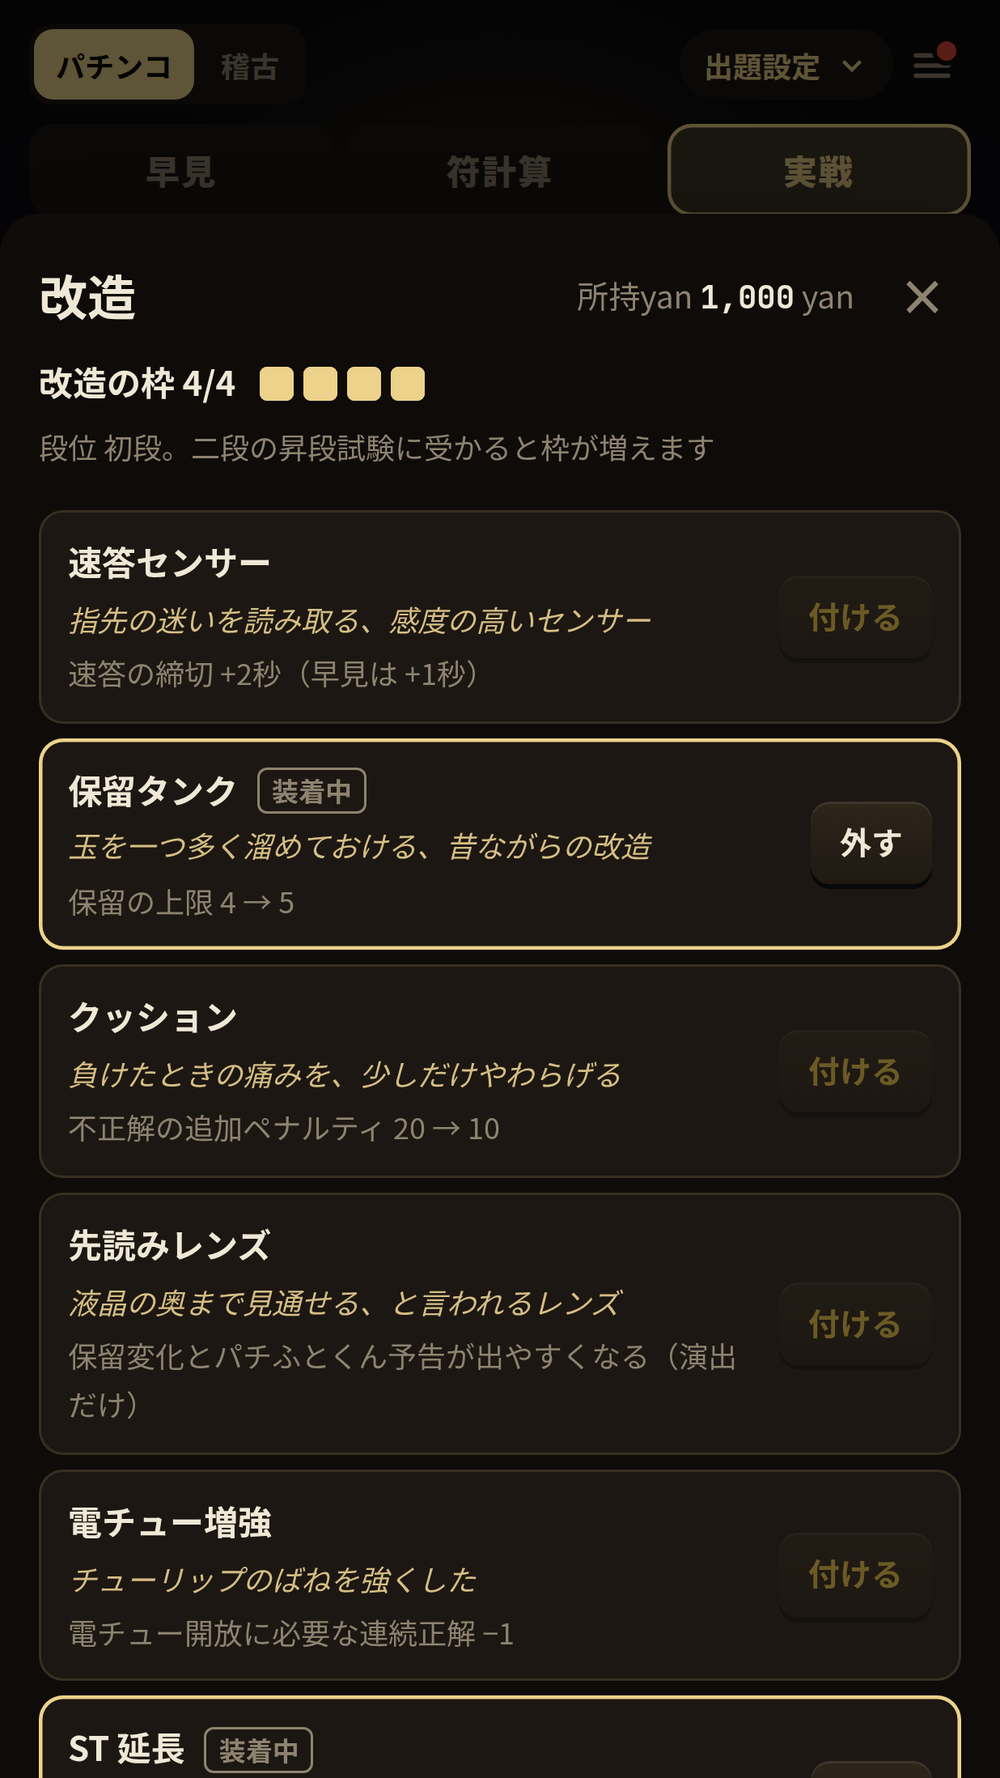
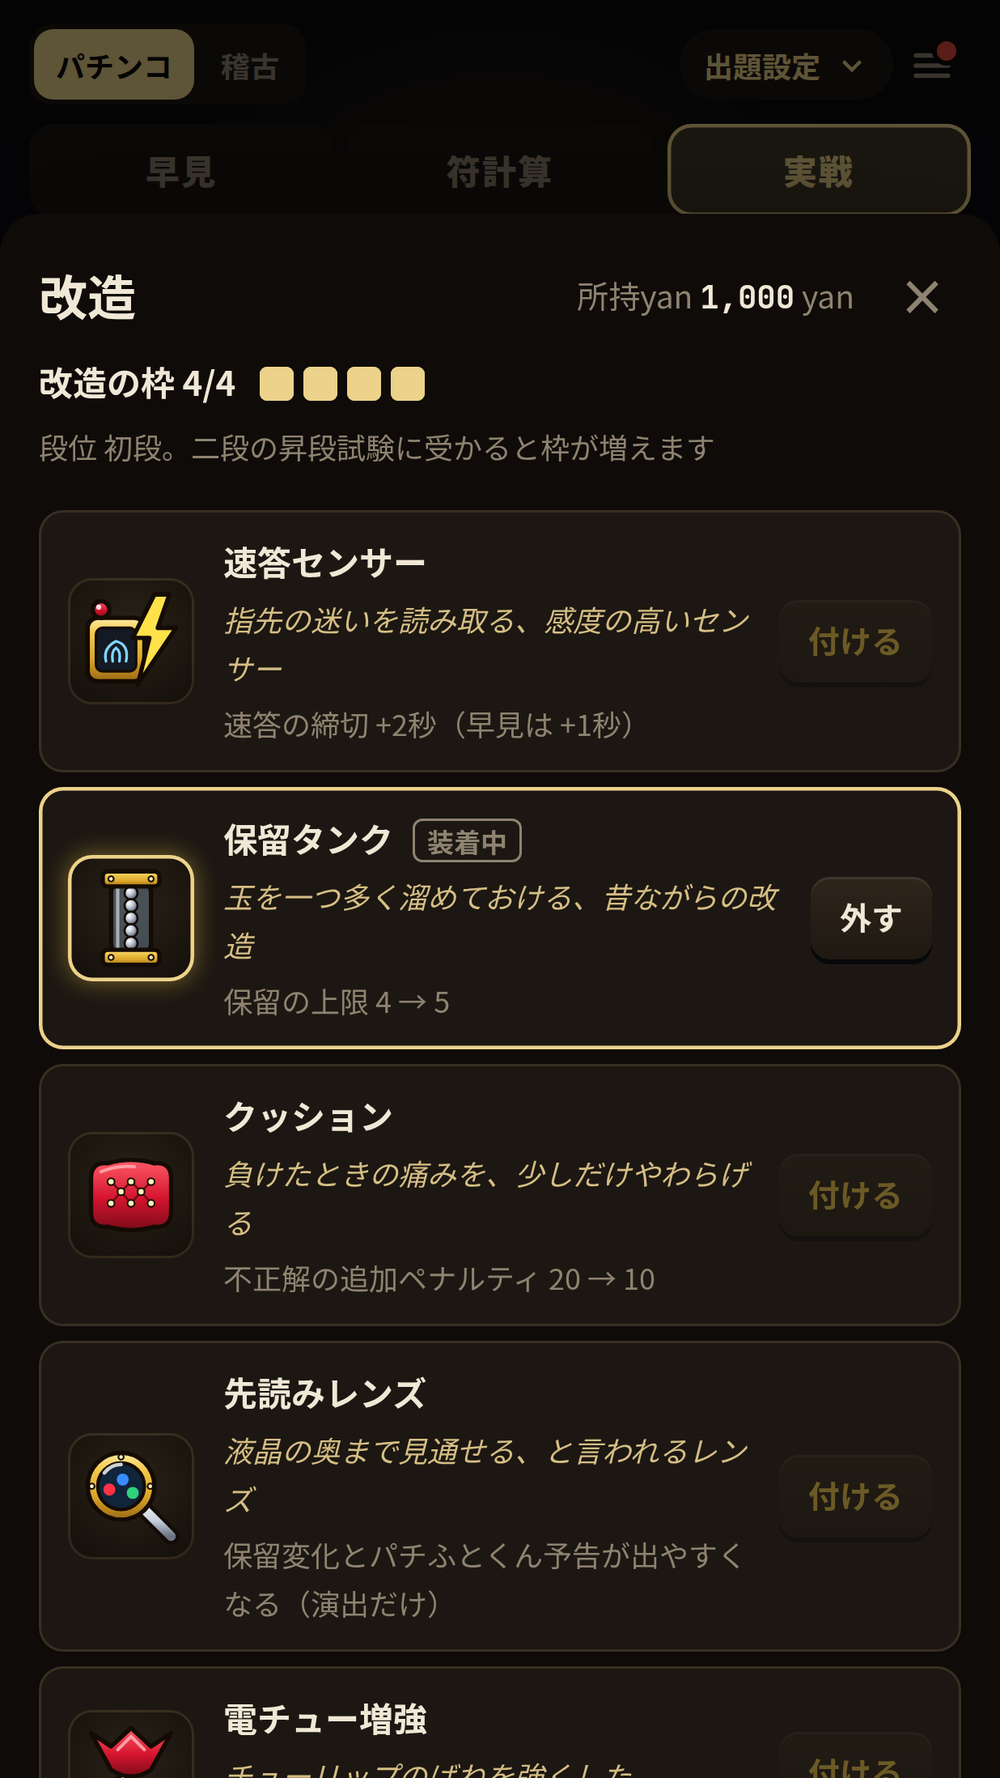
改造パーツ12個に絵をつける
- パチふとくんと同じ画風（太い縁取り、使い込まれた金・鉄・赤）の SVG を src/ui/machine/partArt.ts に描く
- 改造の画面：各行の左に絵。付けているものは枠が光り、まだ手に入れていないものは黒い影
- Lv アップの画面：手に入れたパーツの絵が回りながら現れる
- 台の上：付けているパーツの絵を並べる（スマホ幅では台の枠のすぐ下の右）
- ストアの5枚目を撮り直す

Claude-Session: https://claude.ai/code/session_01Go39Thog7wW1QK3dAFhgwM

diff --git a/src/ui/machine/partArt.ts b/src/ui/machine/partArt.ts
@@ -1,0 +1,163 @@
+import type { PartId } from './parts';
+
+/**
+ * 改造パーツの絵。パチふとくん（tutorial/chara.ts）と同じ画風：太い黒の縁取り、使い込まれた金・鉄・赤。
+ * スクラップ置き場から拾ってきた台の部品に見えるよう、鋲や傷を少し入れる。
+ * 18px ほどの小ささでも形が分かるよう、輪郭を大きく取り、細部は控えめにする
+ */
+
+const INK = '#140b05';
+const RED = '#d4142e';
+const STEEL = '#c4ccd8';
+const W = 2.6;
+let seq = 0;
+
+/** 共通のグラデーション（金・鉄・赤）。id は呼ぶたびに変える */
+function defs(id: string): string {
+  return `<defs>
+    <linearGradient id="${id}-g" x1="0" y1="0" x2="0" y2="1"><stop offset="0" stop-color="#ffe9a0"/><stop offset=".25" stop-color="#f2c94c"/><stop offset=".65" stop-color="#d9a52a"/><stop offset="1" stop-color="#9c6a14"/></linearGradient>
+    <linearGradient id="${id}-s" x1="0" y1="0" x2="0" y2="1"><stop offset="0" stop-color="#eef1f6"/><stop offset=".5" stop-color="${STEEL}"/><stop offset="1" stop-color="#6b7383"/></linearGradient>
+    <linearGradient id="${id}-r" x1="0" y1="0" x2="0" y2="1"><stop offset="0" stop-color="#ff5a66"/><stop offset=".55" stop-color="${RED}"/><stop offset="1" stop-color="#7c0b18"/></linearGradient>
+    <radialGradient id="${id}-b" cx=".35" cy=".32" r=".75"><stop offset="0" stop-color="#fff"/><stop offset=".4" stop-color="${STEEL}"/><stop offset="1" stop-color="#4d5563"/></radialGradient>
+    <radialGradient id="${id}-o" cx=".35" cy=".32" r=".75"><stop offset="0" stop-color="#fffbe0"/><stop offset=".35" stop-color="#ffd84a"/><stop offset=".8" stop-color="#d9a52a"/><stop offset="1" stop-color="#8a5a0c"/></radialGradient>
+  </defs>`;
+}
+
+const rivet = (x: number, y: number, r = 1.6) => `<circle cx="${x}" cy="${y}" r="${r}" fill="#fff4b8" stroke="${INK}" stroke-width="1"/>`;
+/** 4方向に光る小さなきらめき */
+const sparkle = (x: number, y: number, s = 4) =>
+  `<path d="M${x} ${y - s} L${x + s * 0.3} ${y - s * 0.3} L${x + s} ${y} L${x + s * 0.3} ${y + s * 0.3} L${x} ${y + s} L${x - s * 0.3} ${y + s * 0.3} L${x - s} ${y} L${x - s * 0.3} ${y - s * 0.3}Z" fill="#fff4b8" stroke="${INK}" stroke-width="1"/>`;
+/** 右下の丸い札（＋や数字） */
+const badge = (text: string, f: (k: string) => string) =>
+  `<circle cx="50" cy="50" r="10" fill="${f('r')}" stroke="${INK}" stroke-width="${W}"/><text x="50" y="54.6" text-anchor="middle" font-size="${text.length > 1 ? 11 : 14}" font-weight="900" fill="#fff" font-family="'Noto Sans JP', sans-serif">${text}</text>`;
+
+type Draw = (f: (k: string) => string) => string;
+
+const ART: Record<PartId, Draw> = {
+  // 速答センサー：指紋を読む金のセンサー板と、赤い感知ランプ、稲妻
+  fast: (f) => `
+    <rect x="6" y="18" width="34" height="38" rx="6" fill="${f('g')}" stroke="${INK}" stroke-width="${W}"/>
+    <rect x="11" y="24" width="24" height="26" rx="4" fill="#141a24" stroke="${INK}" stroke-width="1.6"/>
+    <g fill="none" stroke="#7fd6ff" stroke-width="1.6" stroke-linecap="round"><path d="M17 44 Q15 36 23 32 Q31 34 29 44"/><path d="M21 44 Q20 38 23 36 Q26 38 25 44"/></g>
+    <circle cx="14" cy="13" r="5" fill="${f('r')}" stroke="${INK}" stroke-width="${W}"/><circle cx="12.6" cy="11.6" r="1.5" fill="#fff" opacity=".85"/>
+    <path d="M46 4 L33 30 L43 30 L36 58 L59 24 L48 24 L55 4 Z" fill="#ffe14a" stroke="${INK}" stroke-width="${W}" stroke-linejoin="round"/>`,
+  // 保留タンク：ガラスの筒に玉が5つ
+  tank: (f) => `
+    <rect x="20" y="10" width="24" height="44" rx="7" fill="#9fd3ff" fill-opacity=".28" stroke="${INK}" stroke-width="${W}"/>
+    ${[17, 24.5, 32, 39.5, 47].map((y) => `<circle cx="32" cy="${y}" r="3.9" fill="${f('b')}" stroke="${INK}" stroke-width="1.3"/>`).join('')}
+    <path d="M24 14 V50" stroke="#fff" stroke-width="2" opacity=".55" stroke-linecap="round"/>
+    <rect x="15" y="4" width="34" height="9" rx="3" fill="${f('g')}" stroke="${INK}" stroke-width="${W}"/>
+    <rect x="15" y="51" width="34" height="9" rx="3" fill="${f('g')}" stroke="${INK}" stroke-width="${W}"/>
+    ${rivet(20, 8.5)}${rivet(44, 8.5)}${rivet(20, 55.5)}${rivet(44, 55.5)}`,
+  // クッション：鋲打ちの赤い革
+  cushion: (f) => `
+    <path d="M8 22 Q8 12 18 13 Q32 9 46 13 Q56 12 56 22 L56 42 Q56 52 46 51 Q32 55 18 51 Q8 52 8 42 Z" fill="${f('r')}" stroke="${INK}" stroke-width="${W}" stroke-linejoin="round"/>
+    <g stroke="#7c0b18" stroke-width="1.4" fill="none" stroke-linecap="round"><path d="M20 24 L26 30 M32 24 L26 30 M32 24 L38 30 M44 24 L38 30 M26 30 L20 37 M26 30 L32 37 M38 30 L32 37 M38 30 L44 37"/></g>
+    ${[
+      [20, 24],
+      [32, 24],
+      [44, 24],
+      [26, 30],
+      [38, 30],
+      [20, 37],
+      [32, 37],
+      [44, 37],
+    ]
+      .map(([x, y]) => rivet(x, y, 2.1))
+      .join('')}
+    <path d="M14 18 Q24 14 34 15" stroke="#ffb3b8" stroke-width="2" fill="none" stroke-linecap="round" opacity=".8"/>`,
+  // 先読みレンズ：真鍮のルーペ。中に保留ランプの光
+  lens: (f) => `
+    <path d="M38 38 L56 56" stroke="${INK}" stroke-width="10" stroke-linecap="round"/>
+    <path d="M38 38 L56 56" stroke="${f('s')}" stroke-width="5.6" stroke-linecap="round"/>
+    <circle cx="26" cy="26" r="20" fill="${f('g')}" stroke="${INK}" stroke-width="${W}"/>
+    <circle cx="26" cy="26" r="14" fill="#10243a" stroke="${INK}" stroke-width="2"/>
+    <circle cx="19" cy="28" r="3.6" fill="#ff3344"/><circle cx="27" cy="22" r="3.6" fill="#3a8bff"/><circle cx="33" cy="30" r="3.6" fill="#2fd27a"/>
+    <path d="M16 18 Q20 13 26 13" stroke="#fff" stroke-width="2.2" fill="none" stroke-linecap="round" opacity=".8"/>
+    ${rivet(26, 8.5)}${rivet(43.5, 26)}${rivet(8.5, 26)}`,
+  // 電チュー増強：開いた赤いチューリップと太いばね
+  denchu: (f) => `
+    <path d="M32 34 L24 37 L40 40 L24 43 L40 46 L24 49 L32 52" fill="none" stroke="${INK}" stroke-width="6" stroke-linejoin="round" stroke-linecap="round"/>
+    <path d="M32 34 L24 37 L40 40 L24 43 L40 46 L24 49 L32 52" fill="none" stroke="${f('g')}" stroke-width="2.6" stroke-linejoin="round" stroke-linecap="round"/>
+    <path d="M8 8 L20 30 Q32 38 44 30 L56 8 L44 16 L32 5 L20 16 Z" fill="${f('r')}" stroke="${INK}" stroke-width="${W}" stroke-linejoin="round"/>
+    <path d="M24 18 L32 10 L40 18" stroke="#ffb3b8" stroke-width="1.8" fill="none" stroke-linecap="round" opacity=".85"/>
+    <rect x="16" y="52" width="32" height="8" rx="2.5" fill="${f('s')}" stroke="${INK}" stroke-width="${W}"/>${rivet(21, 56)}${rivet(43, 56)}`,
+  // ST 延長：回転灯と＋
+  st: (f) => `
+    <g stroke="#ff4a4a" stroke-width="2.6" stroke-linecap="round" opacity=".9"><path d="M12 14 L6 9"/><path d="M52 14 L58 9"/><path d="M32 6 V1"/><path d="M8 28 H3"/><path d="M56 28 H61"/></g>
+    <path d="M14 42 Q14 12 32 12 Q50 12 50 42 Z" fill="${f('r')}" stroke="${INK}" stroke-width="${W}" stroke-linejoin="round"/>
+    <path d="M21 34 Q21 19 31 17" stroke="#ffd0d4" stroke-width="3" fill="none" stroke-linecap="round" opacity=".85"/>
+    <rect x="9" y="40" width="46" height="10" rx="3" fill="${f('s')}" stroke="${INK}" stroke-width="${W}"/>
+    ${rivet(15, 45)}${rivet(49, 45)}
+    ${badge('+', f)}`,
+  // 連続ブースター：右上がりの3本のメーターと矢印
+  combo: (f) => `
+    <rect x="6" y="40" width="13" height="18" rx="2.5" fill="${f('g')}" stroke="${INK}" stroke-width="${W}"/>
+    <rect x="24" y="30" width="13" height="28" rx="2.5" fill="${f('g')}" stroke="${INK}" stroke-width="${W}"/>
+    <rect x="42" y="18" width="13" height="40" rx="2.5" fill="${f('r')}" stroke="${INK}" stroke-width="${W}"/>
+    <path d="M6 30 L22 18 L30 23 L44 8" fill="none" stroke="${INK}" stroke-width="7" stroke-linecap="round" stroke-linejoin="round"/>
+    <path d="M6 30 L22 18 L30 23 L44 8" fill="none" stroke="#7fffb0" stroke-width="3" stroke-linecap="round" stroke-linejoin="round"/>
+    <path d="M36 6 L48 3 L45 15 Z" fill="#7fffb0" stroke="${INK}" stroke-width="2" stroke-linejoin="round"/>`,
+  // 確変ユニット：鉄の箱の基板、紫の確変ランプ、出どころ不明のテープ
+  kakuhen: (f) => `
+    <rect x="6" y="14" width="52" height="40" rx="5" fill="${f('s')}" stroke="${INK}" stroke-width="${W}"/>
+    <rect x="12" y="20" width="26" height="28" rx="2" fill="#16502f" stroke="${INK}" stroke-width="1.6"/>
+    <g stroke="#e8c76a" stroke-width="1.4" fill="none"><path d="M15 26 H24 V32 H34"/><path d="M15 40 H22 V36 H34"/><path d="M28 44 H35"/></g>
+    <rect x="18" y="29" width="7" height="6" fill="${INK}"/><rect x="27" y="38" width="6" height="5" fill="${INK}"/>
+    <circle cx="48" cy="28" r="6.5" fill="#c86bff" stroke="${INK}" stroke-width="${W}"/><circle cx="46" cy="26" r="2" fill="#fff" opacity=".85"/>
+    <circle cx="48" cy="28" r="10" fill="none" stroke="#c86bff" stroke-width="1.4" opacity=".55"/>
+    <path d="M36 50 L58 38 L60 44 L39 56 Z" fill="#e9dfb8" stroke="${INK}" stroke-width="1.8" stroke-linejoin="round"/>
+    <path d="M44 45 L50 49 M50 43 L45 50" stroke="${RED}" stroke-width="1.8" stroke-linecap="round"/>
+    ${rivet(10, 18)}${rivet(10, 50)}${rivet(54, 18)}`,
+  // 上乗せ強化：積み上がる金のコインと＋
+  uwanose: (f) => {
+    const coin = (y: number) =>
+      `<path d="M10 ${y} V${y + 5} Q26 ${y + 12} 42 ${y + 5} V${y}" fill="#b07d18" stroke="${INK}" stroke-width="${W}"/><ellipse cx="26" cy="${y}" rx="16" ry="6" fill="${f('o')}" stroke="${INK}" stroke-width="${W}"/>`;
+    return `${coin(50)}${coin(42)}${coin(34)}${coin(26)}
+      <path d="M18 25 Q26 22 34 25" stroke="#fff" stroke-width="1.6" fill="none" stroke-linecap="round" opacity=".7"/>
+      <circle cx="49" cy="15" r="10" fill="${f('r')}" stroke="${INK}" stroke-width="${W}"/>
+      <path d="M49 9.5 V20.5 M43.5 15 H54.5" stroke="#fff" stroke-width="3.2" stroke-linecap="round"/>
+      ${sparkle(12, 12, 4.5)}`;
+  },
+  // 赤五筒センサー：赤五筒の牌と、それを見つめる目玉のセンサー
+  premium: (f) => `
+    <rect x="31" y="10" width="26" height="36" rx="4" fill="#f6f1e3" stroke="${INK}" stroke-width="${W}"/>
+    <rect x="31" y="40" width="26" height="6" rx="2" fill="#1f5c45" stroke="${INK}" stroke-width="1.6"/>
+    ${[
+      [38, 18],
+      [50, 18],
+      [44, 26],
+      [38, 34],
+      [50, 34],
+    ]
+      .map(([x, y]) => `<circle cx="${x}" cy="${y}" r="3.6" fill="${RED}"/><circle cx="${x}" cy="${y}" r="1.4" fill="#f6f1e3"/>`)
+      .join('')}
+    <path d="M22 32 L32 28" stroke="#ff4a4a" stroke-width="2" stroke-dasharray="2 2" opacity=".9"/>
+    <circle cx="15" cy="36" r="12" fill="${f('g')}" stroke="${INK}" stroke-width="${W}"/>
+    <circle cx="16" cy="35" r="7.5" fill="#fff" stroke="${INK}" stroke-width="1.8"/>
+    <circle cx="18" cy="33.6" r="4" fill="${RED}"/><circle cx="18.8" cy="33" r="1.6" fill="${INK}"/><circle cx="16.6" cy="32" r="1" fill="#fff"/>
+    <rect x="9" y="47" width="12" height="11" rx="2" fill="${f('s')}" stroke="${INK}" stroke-width="2"/>`,
+  // ラウンド追加：R の刻印の歯車と＋1
+  round: (f) => {
+    const teeth = Array.from({ length: 8 }, (_, i) => `<rect x="25" y="2" width="12" height="12" rx="2" transform="rotate(${i * 45} 31 29)" fill="${f('g')}" stroke="${INK}" stroke-width="${W}"/>`).join('');
+    return `${teeth}<circle cx="31" cy="29" r="20" fill="${f('g')}" stroke="${INK}" stroke-width="${W}"/>
+      <circle cx="31" cy="29" r="13" fill="#3a3027" stroke="${INK}" stroke-width="2"/>
+      <text x="31" y="35.5" text-anchor="middle" font-size="18" font-weight="900" fill="#ffe14a" font-family="'Noto Sans JP', sans-serif">R</text>
+      ${badge('+1', f)}`;
+  },
+  // 金の玉：伝説の大当りの玉と同じ色
+  gold: (f) => `
+    <circle cx="32" cy="34" r="20" fill="#ffd84a" opacity=".25"/>
+    <circle cx="32" cy="34" r="16" fill="${f('o')}" stroke="${INK}" stroke-width="${W}"/>
+    <ellipse cx="26" cy="27" rx="5.5" ry="3.6" fill="#fff" opacity=".9" transform="rotate(-30 26 27)"/>
+    <path d="M40 44 Q44 40 45 34" stroke="#8a5a0c" stroke-width="1.8" fill="none" stroke-linecap="round" opacity=".7"/>
+    ${sparkle(51, 13, 6)}${sparkle(11, 16, 4)}${sparkle(54, 50, 3.5)}`,
+};
+
+/** パーツの絵（viewBox 64×64）。label を渡すと読み上げ用の名前を付ける */
+export function partSvg(id: PartId, label?: string): string {
+  const pid = `pa${++seq}`;
+  const f = (k: string) => `url(#${pid}-${k})`;
+  const aria = label ? ` role="img" aria-label="${label}"` : ' aria-hidden="true"';
+  return `<svg class="part-art" viewBox="0 0 64 64" xmlns="http://www.w3.org/2000/svg"${aria}>${defs(pid)}${ART[id](f)}</svg>`;
+}

diff --git a/src/ui/shop.ts b/src/ui/shop.ts
@@ -5,6 +5,7 @@
 import type { Mode } from '../core/generator';
 import { MACHINE_IDS, type MachineId, SPECS } from './machine/specs';
 import { PARTS, PART_ORDER, type PartsState } from './machine/parts';
+import { partSvg } from './machine/partArt';
 import { load, save } from './storage';
 
 const KEY = 'tensu.shop.v1';
@@ -285,7 +286,8 @@ export function partsHtml(v: PartsView): string {
     if (!have) btn = `<span class="shop-lock">Lv ${i + 2}</span>`;
     else if (on) btn = `<button class="shop-btn" data-part-off="${id}"${v.canChange ? '' : ' disabled'}>外す</button>`;
     else btn = `<button class="shop-btn buy" data-part-on="${id}"${v.canChange && used < v.slots ? '' : ' disabled'}>付ける</button>`;
-    return `<div class="shop-row${on ? ' cur' : ''}${have ? '' : ' locked'}"><div class="mis"><div class="shop-name">${have ? p.name : '？？？'}${on ? '<em>装着中</em>' : ''}</div>${have ? `<div class="shop-flavor">${p.flavor}</div><div class="shop-desc">${p.desc}</div>` : `<div class="shop-desc">Lv ${i + 2} で手に入る</div>`}</div><div class="shop-acts">${btn}</div></div>`;
+    const art = `<div class="part-thumb${on ? ' on' : ''}${have ? '' : ' unknown'}">${partSvg(id)}</div>`;
+    return `<div class="shop-row part-row${on ? ' cur' : ''}${have ? '' : ' locked'}">${art}<div class="mis"><div class="shop-name">${have ? p.name : '？？？'}${on ? '<em>装着中</em>' : ''}</div>${have ? `<div class="shop-flavor">${p.flavor}</div><div class="shop-desc">${p.desc}</div>` : `<div class="shop-desc">Lv ${i + 2} で手に入る</div>`}</div><div class="shop-acts">${btn}</div></div>`;
   }).join('');
   const note = v.canChange ? '' : '<p class="help-note">BONUS 中と台が回っている間は、付け替えできません。</p>';
   return head + rows + note + `<p class="help-note">改造パーツは Lv が上がるたびに1つ手に入ります（Lv ${PART_ORDER.length + 1} まで）。付けると台が少し有利になります。</p>`;

diff --git a/tests/partArt.test.ts b/tests/partArt.test.ts
@@ -1,0 +1,32 @@
+import { describe, expect, it } from 'vitest';
+import { partSvg } from '../src/ui/machine/partArt';
+import { PART_ORDER } from '../src/ui/machine/parts';
+import { partsHtml } from '../src/ui/shop';
+
+describe('改造パーツの絵', () => {
+  it('12個すべてに 64×64 の絵がある', () => {
+    for (const id of PART_ORDER) {
+      const svg = partSvg(id);
+      expect(svg.startsWith('<svg')).toBe(true);
+      expect(svg).toContain('viewBox="0 0 64 64"');
+      expect(svg.endsWith('</svg>')).toBe(true);
+    }
+  });
+  it('同じ画面に何枚並べても、グラデーションの id がぶつからない', () => {
+    const html = [...PART_ORDER, ...PART_ORDER].map((id) => partSvg(id)).join('');
+    const ids = [...html.matchAll(/ id="([^"]+)"/g)].map((m) => m[1]);
+    expect(new Set(ids).size).toBe(ids.length);
+    // 参照している id はすべて定義されている
+    for (const m of html.matchAll(/url\(#([^)]+)\)/g)) expect(ids).toContain(m[1]);
+  });
+  it('名前を渡すと読み上げ用のラベルが付く', () => {
+    expect(partSvg('gold', '金の玉')).toContain('aria-label="金の玉"');
+    expect(partSvg('gold')).toContain('aria-hidden="true"');
+  });
+  it('改造の画面：各行に絵の枠。付けている行は光り、まだのパーツは影', () => {
+    const html = partsHtml({ state: { owned: ['fast', 'tank'], equip: ['tank'] }, slots: 2, rank: '5級', nextSlotRank: '3級', canChange: true });
+    expect(html.match(/class="part-thumb/g)).toHaveLength(PART_ORDER.length);
+    expect(html.match(/part-thumb on/g)).toHaveLength(1);
+    expect(html.match(/part-thumb unknown/g)).toHaveLength(PART_ORDER.length - 2);
+  });
+});

diff --git a/src/styles/cabinet.css b/src/styles/cabinet.css
@@ -2303,3 +2303,67 @@ body[data-phase='summary'] #meter,
     display: inline;
   }
 }
+
+/* ============================================================ 改造パーツの絵 */
+.part-art {
+  display: block;
+  width: 100%;
+  height: 100%;
+}
+/* 改造の画面：名前の左の四角い枠 */
+.part-row {
+  justify-content: flex-start;
+}
+.part-row .mis {
+  flex: 1;
+  min-width: 0;
+}
+.part-thumb {
+  flex: none;
+  width: 52px;
+  height: 52px;
+  padding: 4px;
+  border-radius: 10px;
+  background: radial-gradient(circle at 50% 40%, #2a2218, #120e09);
+  box-shadow: inset 0 0 0 1px var(--line);
+}
+.part-thumb.on {
+  box-shadow: inset 0 0 0 1.5px var(--main), 0 0 10px rgba(242, 201, 76, 0.45);
+}
+/* まだ手に入れていないパーツは黒い影だけ見せる */
+.part-thumb.unknown .part-art {
+  filter: brightness(0);
+  opacity: 0.45;
+}
+/* 台の上：付けているパーツを保留ランプとパチふとくんの間に並べる */
+#machine .m-parts {
+  display: flex;
+  align-items: center;
+  min-width: 0;
+  margin-left: 8px;
+}
+#machine .m-part {
+  flex: none;
+  width: 18px;
+  height: 18px;
+  filter: drop-shadow(0 1px 1px rgba(0, 0, 0, 0.6));
+}
+#machine .m-part + .m-part {
+  margin-left: 2px;
+}
+/* 狭い幅では少し重ねて詰める */
+/* スマホ幅では液晶帯の下の段に入りきらないので、台の枠のすぐ下の右に並べる */
+@media (max-width: 480px) {
+  #machine .m-parts {
+    position: absolute;
+    top: 100%;
+    right: 14px;
+    margin: 4px 0 0;
+  }
+}
+@media (min-width: 900px) {
+  #machine .m-part {
+    width: 22px;
+    height: 22px;
+  }
+}

diff --git a/src/ui/machine/panel.ts b/src/ui/machine/panel.ts
@@ -8,6 +8,8 @@ import { type Face, charaSvg } from '../tutorial/chara';
 import { ECONOMY } from './economy';
 import { Machine, PREMIUM_SYMBOL, type SpinResult, maxHolds } from './machine';
 import { mods } from './mods';
+import { partSvg } from './partArt';
+import { PARTS, type PartId } from './parts';
 
 export interface PanelHooks {
   /** 発展リーチ・大当り中は回答を止める */
@@ -79,6 +81,7 @@ export class MachinePanel {
           <div class="m-msg" aria-live="polite"></div>
           <div class="m-bottom">
             <div class="m-holds" aria-label="保留">${Array.from({ length: maxHolds() }, () => '<span class="hold"></span>').join('')}</div>
+            <div class="m-parts" aria-label="付けている改造パーツ"></div>
             <button class="m-chara" type="button" aria-label="パチふとくん" data-silent></button>
             <div class="m-chucker" title="始動口"><span></span></div>
           </div>
@@ -445,6 +448,14 @@ export class MachinePanel {
     const el = this.root.querySelector<HTMLElement>('.m-msg')!;
     el.className = `m-msg ${cls}`;
     el.textContent = text;
+  }
+
+  /** 付けている改造パーツの絵を、液晶帯の下の段に並べる */
+  setParts(ids: PartId[]): void {
+    const el = this.root.querySelector<HTMLElement>('.m-parts');
+    if (!el) return;
+    el.innerHTML = ids.map((id) => `<span class="m-part" title="${PARTS[id].name}">${partSvg(id)}</span>`).join('');
+    el.hidden = ids.length === 0;
   }
 
   render(pop = false): void {

diff --git a/src/ui/effects/levelup.ts b/src/ui/effects/levelup.ts
@@ -1,5 +1,7 @@
 import { sfx } from '../audio';
 import { charaSvg } from '../tutorial/chara';
+import { partSvg } from '../machine/partArt';
+import type { PartId } from '../machine/parts';
 import type { EffectLevel } from './performance';
 
 /**
@@ -39,7 +41,7 @@ export function levelUpHtml(v: LevelUpView): string {
   const parts = (v.parts ?? [])
     .map(
       (p) =>
-        `<div class="lu-reward"><small>改造パーツ</small><b>${p.name}</b><span>${p.desc}</span>${v.canEquip ? `<button class="lu-mini" type="button" data-lu-equip="${p.id}">台に付ける</button>` : '<span class="lu-note">枠がいっぱい（メニューの「改造」で付け替え）</span>'}</div>`,
+        `<div class="lu-reward lu-part"><div class="lu-part-art">${partSvg(p.id as PartId)}</div><small>改造パーツ</small><b>${p.name}</b><span>${p.desc}</span>${v.canEquip ? `<button class="lu-mini" type="button" data-lu-equip="${p.id}">台に付ける</button>` : '<span class="lu-note">枠がいっぱい（メニューの「改造」で付け替え）</span>'}</div>`,
     )
     .join('');
   const cash = v.cash ? `<div class="lu-reward"><small>祝い金</small><b>+${v.cash.toLocaleString()} yan</b></div>` : '';

diff --git a/src/styles/main.css b/src/styles/main.css
@@ -4406,3 +4406,30 @@ body.exam #open-shop {
     width: 100vw;
   }
 }
+/* Lv アップ：手に入れた改造パーツの絵 */
+#levelup .lu-part-art {
+  flex-basis: 100%;
+  display: flex;
+  justify-content: center;
+}
+#levelup .lu-part-art .part-art {
+  width: 72px;
+  height: 72px;
+  filter: drop-shadow(0 0 10px rgba(255, 216, 74, 0.45));
+  animation: lu-part-in 0.6s 0.5s cubic-bezier(0.2, 1.4, 0.4, 1) both;
+}
+@keyframes lu-part-in {
+  from {
+    opacity: 0;
+    transform: scale(0.3) rotate(-160deg);
+  }
+  to {
+    opacity: 1;
+    transform: none;
+  }
+}
+@media (prefers-reduced-motion: reduce) {
+  #levelup .lu-part-art .part-art {
+    animation: none;
+  }
+}

diff --git a/src/ui/app.ts b/src/ui/app.ts
@@ -256,6 +256,7 @@ export class App {
       onTalk: (e) => this.talk(e),
       onCharaTap: () => this.talk('tap'),
     });
+    this.panel.setParts(this.parts.equip);
     this.panel.machine.spec = this.spec;
     if (this.spec.jissenOnly && this.s.mode !== 'jissen') this.s = { ...this.s, mode: 'jissen' };
     this.applyLooks();
@@ -951,6 +952,7 @@ export class App {
     } else unequipPart(this.parts, id);
     saveParts(this.parts);
     applyParts(this.parts, this.slots);
+    this.panel.setParts(this.parts.equip);
     this.panel.machine.spec = this.spec;
     this.panel.render();
     this.renderShop();
